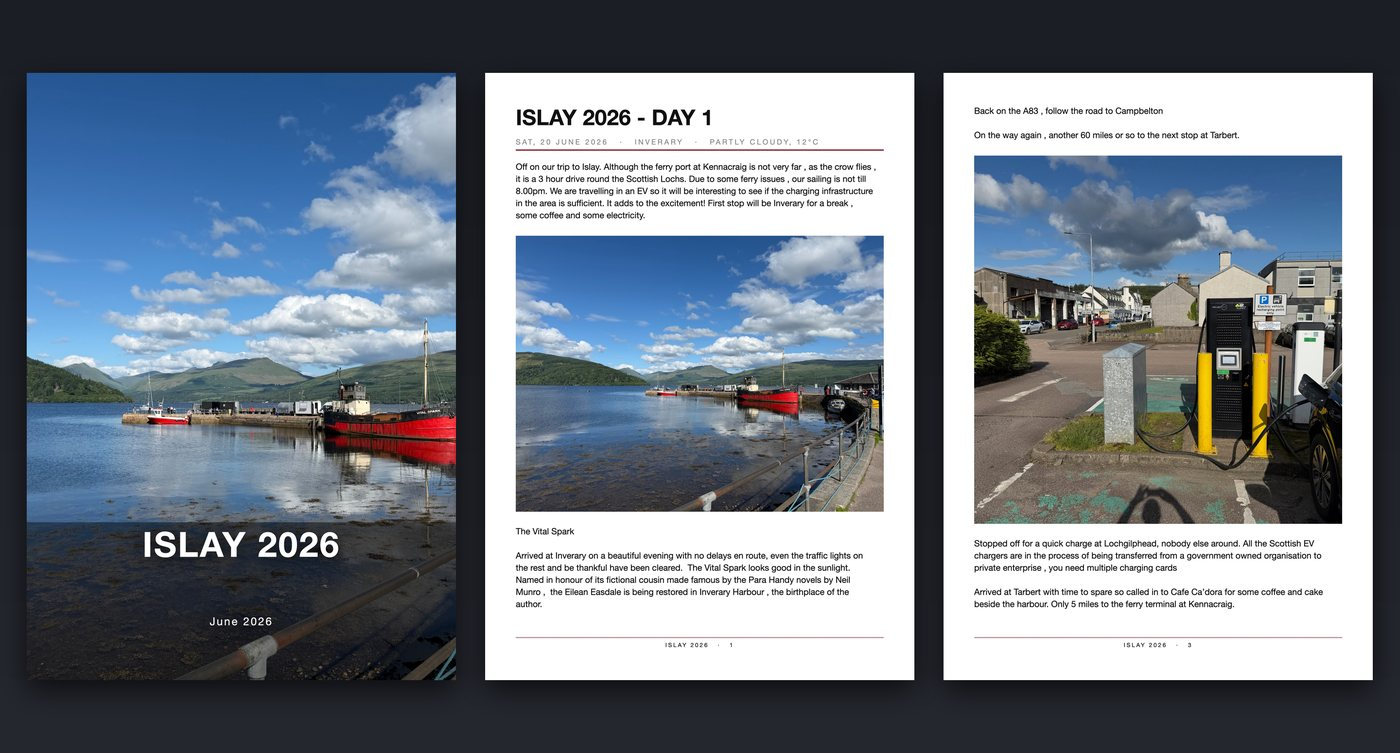
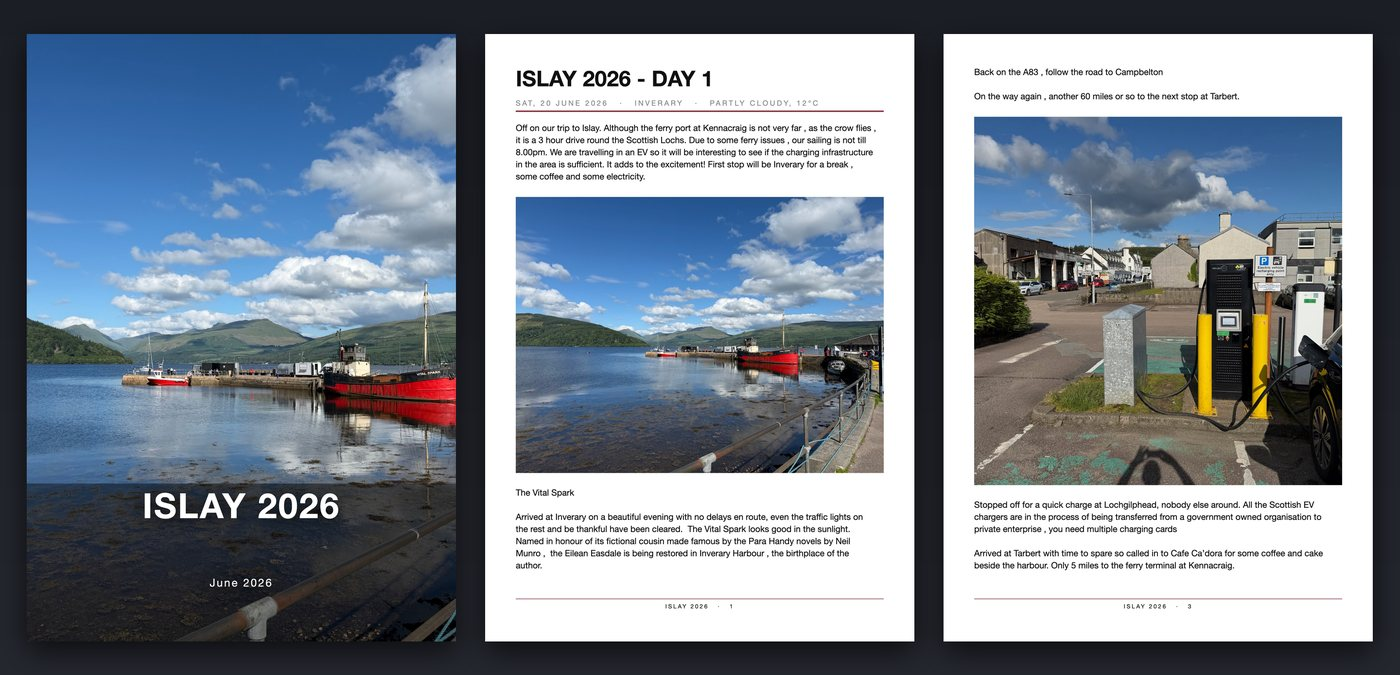
Day One page: trim image padding

diff --git a/day-one-book.html b/day-one-book.html
@@ -138,7 +138,7 @@
 </header>
 
 <figure>
-  <img src="img/dayone/dayone-pages.jpg" alt="Two journal pages: an entry with a heading, date, place and writing above a photo, and a full-width photo page with a caption" width="1400" height="753">
+  <img src="img/dayone/dayone-pages.jpg" alt="Two journal pages: an entry with a heading, date, place and writing above a photo, and a full-width photo page with a caption" width="1400" height="529">
   <figcaption>One designed page per journal entry. (The sample journal is a holiday trip.)</figcaption>
 </figure>
 
@@ -199,13 +199,13 @@
 </ol>
 
 <h2>What it looks like</h2>
-<figure><img src="img/dayone/dayone-book.jpg" alt="A journal cover, a journal page and the back cover" loading="lazy" width="1400" height="753"><figcaption>A cover, your pages, a closing page</figcaption></figure>
-<figure><img src="img/dayone/dayone-portrait.jpg" alt="A portrait journal: cover and two entry pages" loading="lazy" width="1400" height="753"><figcaption>The same journal in portrait</figcaption></figure>
-<figure><img src="img/dayone/dayone-photobook.jpg" alt="Two photobook pages in the Classic and Editorial designs" loading="lazy" width="1400" height="753"><figcaption>As a photobook, in two designs — the same designs work for journals</figcaption></figure>
+<figure><img src="img/dayone/dayone-book.jpg" alt="A journal cover, a journal page and the back cover" loading="lazy" width="1400" height="373"><figcaption>A cover, your pages, a closing page</figcaption></figure>
+<figure><img src="img/dayone/dayone-portrait.jpg" alt="A portrait journal: cover and two entry pages" loading="lazy" width="1400" height="675"><figcaption>The same journal in portrait</figcaption></figure>
+<figure><img src="img/dayone/dayone-photobook.jpg" alt="Two photobook pages in the Classic and Editorial designs" loading="lazy" width="1400" height="534"><figcaption>As a photobook, in two designs — the same designs work for journals</figcaption></figure>
 
 <h2>Make it yours: colour and design</h2>
 <p>The journal colour you pick is used for the footer line, heading rules and back cover, so one choice changes the whole feel of the book. The <strong>design</strong> sets the page colour, the title typeface, and whether photos get a frame. Classic and Editorial are included; more come as <a href="https://payhip.com/MosaicCollageMaker">Style Packs</a>, and one pack works for both journals and photobooks.</p>
-<figure><img src="img/dayone/dayone-colours.jpg" alt="The same journal page in four colours: navy, burgundy, green and amber" loading="lazy" width="1400" height="753"><figcaption>One page, four journal colours</figcaption></figure>
+<figure><img src="img/dayone/dayone-colours.jpg" alt="The same journal page in four colours: navy, burgundy, green and amber" loading="lazy" width="1400" height="1015"><figcaption>One page, four journal colours</figcaption></figure>
 
 <h2>What comes across, and what doesn't</h2>
 <ul>
